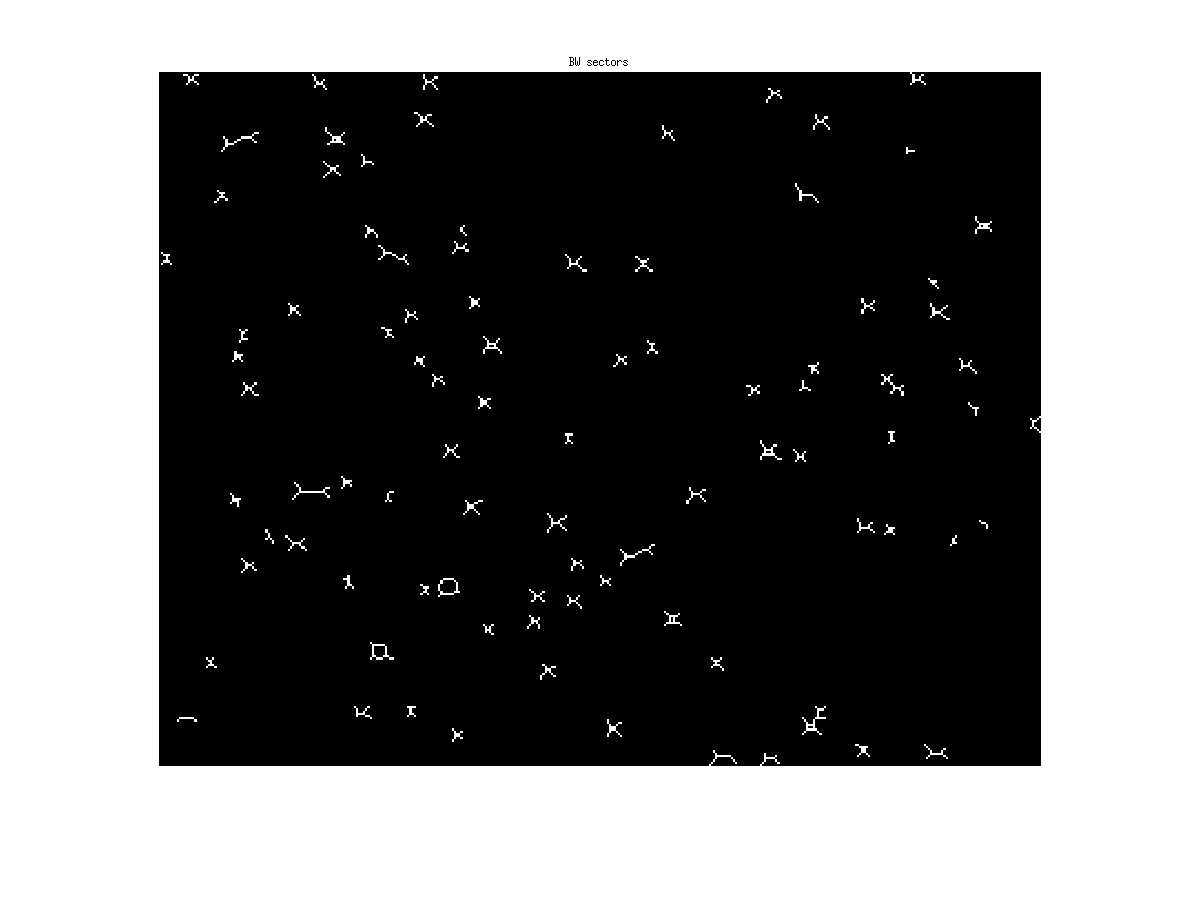
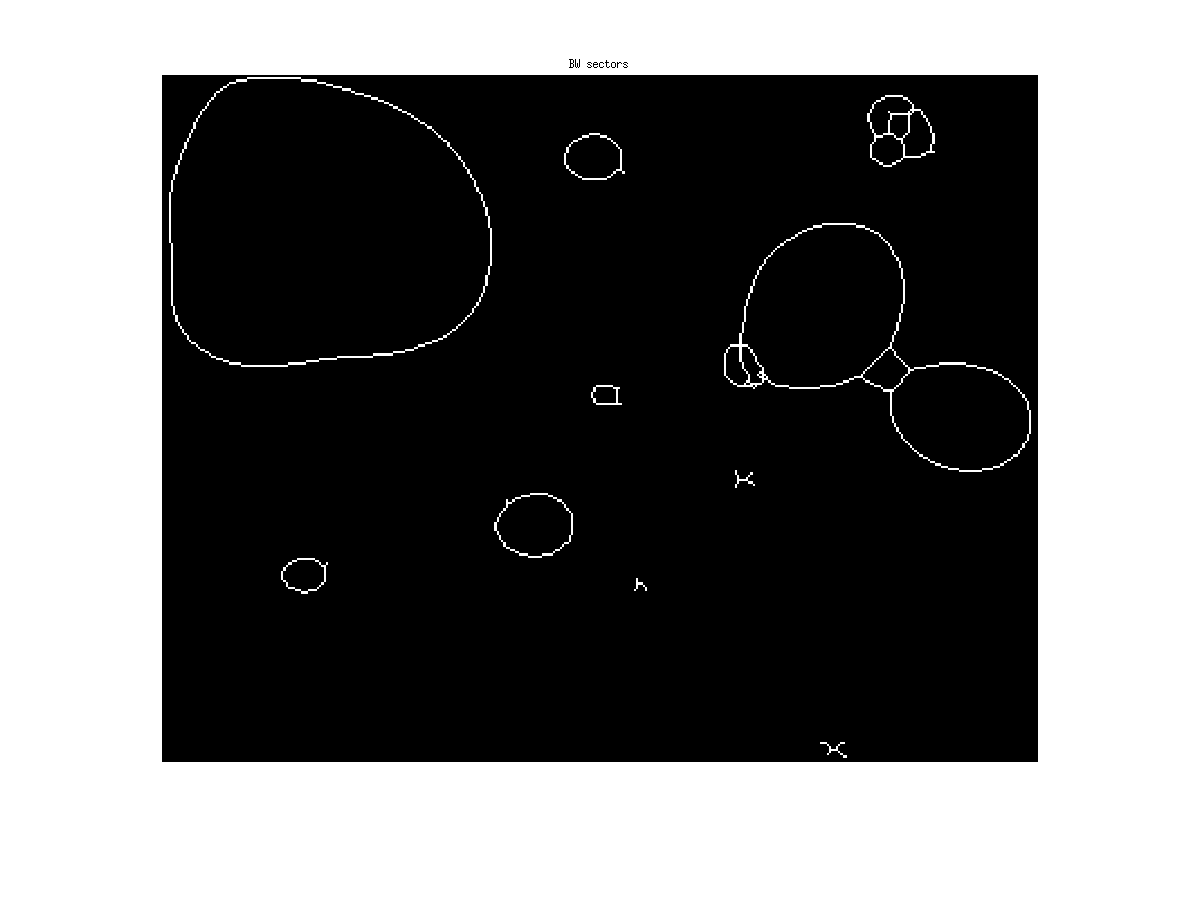
Updated Noise sectors

diff --git a/Matlab/Noise/sectors.m b/Matlab/Noise/sectors.m
@@ -1,23 +1,23 @@
 clc 
 clear all
 
-XMin = -100;
-XMax = 100;
-YMin = -100;
-YMax = 100;
+XMin = -10;
+XMax = 10;
+YMin = -10;
+YMax = 10;
 addpath('Reference/c2xyz/');
 addpath('Reference/export/');
 
 %% Random Radial Basis functions in space 
 disp('3D case with random path - 10 rbf:');
-N = 100 % number of random functions
+N = 20 % number of random functions
 stepMesh = 0.1;
 Z = zeros((XMax-XMin)/stepMesh+1,(XMax-XMin)/stepMesh+1);
 [X,Y] = meshgrid(XMin:stepMesh:XMax);
-% random variance in [a;b] = [0.3;1.5]
-variances = 0.3 + (1.5-0.3).*rand(N,1);
-% random amplitude [0.1;1]
-amplitudes = 0.1 + (1-0.1).*rand(N,1);
+% random variance in [a;b] = [0.2;1.5]
+variances = 0.2 + (1.5-0.2).*rand(N,1);
+% random amplitude [3;18]
+amplitudes = 3 + (18-3).*rand(N,1);
 % Random Xcenters in [-XMin;xMax]
 Xcenters = XMin+ (XMax-XMin).*rand(N,1);
 Ycenters = YMin+ (YMax-YMin).*rand(N,1);
@@ -34,10 +34,10 @@ for i=1:1:N
     disp(variances(i,1))
     disp(Xcenters(i,1))
     disp(Ycenters(i,1))
-    Z = Z + 1*exp(-((X-Xci(:,1:((XMax-XMin)/stepMesh+1))).^2+(Y-Yci(:,((XMax-XMin)/stepMesh+2):((YMax-YMin)/stepMesh+1)*2)).^2)*esp(i,1).^2);
+    Z = Z + amplitudes(i,1)*exp(-((X-Xci(:,1:((XMax-XMin)/stepMesh+1))).^2+(Y-Yci(:,((XMax-XMin)/stepMesh+2):((YMax-YMin)/stepMesh+1)*2)).^2)*esp(i,1).^2);
 end
 figure(1);
-surf(X,Y,Z)
+start = surf(X,Y,Z,'LineStyle','none','FaceLighting','phong');
 
 %% Analyze data -  Post elaboration 
 % Contour[Required]
@@ -58,7 +58,7 @@ figure(2)
 % Same ad the commented code above + more options
 figure(3)
 hold on; % Allows plotting atop the preexisting peaks plot. 
-threshold = 0.8;
+threshold = 12;
 sector.numberOfZones = 1;
 % analyze all the level curves
 for n = find(z1==threshold); 
@@ -75,7 +75,6 @@ title('Contours of interest');
 hold off
 disp('Number of zones founded:');
 disp(sector.numberOfZones);
-
 
 %% Convert to BW
 
@@ -113,7 +112,7 @@ hold off
 % Plot centroids in convex sectors
 h = figure(5)
 CH_objects = bwconvhull(BW,'objects',8);
-imshow(CH_objects);
+    imshow(CH_objects);
 hold on
 plot(centroids(:,1),centroids(:,2), 'b*')
 hold off
@@ -161,53 +160,47 @@ for secteur = 1:size(stats,1)
     hold on
 end
 
-%% Plot bounding box
-figure(5)
-hold on
-for secteur = 1:size(stats,1)    
-        rectangle('Position',stats(secteur,1).BoundingBox,'EdgeColor','r','LineWidth',10,'LineStyle','--');
-end
-
-%% Plots Global convexHull figure
-
-figure(6)
-title('Union Convex Hull');
-CH = bwconvhull(BW);
-imshow(CH);
 
 %% Scaling sectors up by a factor of K
 
-k=1
-%figure(9)
-% For each sector
-figure(4)
-for i=1:sector.numberOfZones-1
-    % for each point of the sector
-    for j=1:size(sector.zones(i).x,2)-1        
-        plot(sector.zones(i).x(1,j),sector.zones(i).y(1,j),'-b','LineWidth',3)
-        v=[sector.zones(i).x(1,j) - stats(i).Centroid(1); sector.zones(i).y(1,j) - stats(i).Centroid(2)];
-        sector.zone(i).x(1,j) = sector.zones(i).x(1,j) + k*v(1) ;
-        sector.zone(i).y(1,j) = sector.zones(i).y(1,j) + k*v(2) ;
-        hold on
-        %plot(sector.zone(i).x(1,j),sector.zone(i).y(1,j),'-r','LineWidth',3)
-    end
-    
-    %plot(centroids(i,1),centroids(i,2), 'r*')
-    %hold on
-end
-hold off
+% k=10
+% %figure(9)
+% % For each sector
+% figure(4)
+% for i=1:sector.numberOfZones-3
+%     
+%     % for each point of the sector
+%     for j=1:size(sector.zones(i).x,2)-2    
+%         
+%         plot(sector.zones(i).x(1,j),sector.zones(i).y(1,j),'-k','LineWidth',5)
+%         v=[sector.zones(i).x(1,j) - stats(i).Centroid(1); sector.zones(i).y(1,j) - stats(i).Centroid(2)];
+%         sector.zone(i).x(1,j) = sector.zones(i).x(1,j) + k*v(1) ;
+%         sector.zone(i).y(1,j) = sector.zones(i).y(1,j) + k*v(2) ;
+%         hold on
+%         %plot(sector.zone(i).x(1,j),sector.zone(i).y(1,j),'-r','LineWidth',3)
+%     end
+%     
+%     %plot(centroids(i,1),centroids(i,2), 'r*')
+%     %hold on
+% end
+% hold off
+
+
+%% Plot bounding box
+% figure(5)
+% hold on
+% for secteur = 1:size(stats,1)    
+%         rectangle('Position',stats(secteur,1).BoundingBox,'EdgeColor','r','LineWidth',10,'LineStyle','--');
+% end
+
+%% Plots Global convexHull figure
+
+% figure(6)
+% title('Union Convex Hull');
+% CH = bwconvhull(BW);
+% imshow(CH);
+
 %% Calculate sectors
 
 set(0,'CurrentFigure',h);
 voronoi(centroids(:,1),centroids(:,2))
-
-%figure(7)
-for i=1:sector.numberOfZones-1
-    %i
-    for j=1:size(sector.zones(i).x,2)-1
-        %hold on
-        %plot(sector.zone(i).x(1,j),sector.zone(i).y(1,j),'--rs')
-        %hold on
-        %plot(stats(i).Centroid(1),stats(i).Centroid(2),'+','LineWidth',4)
-    end
-end
